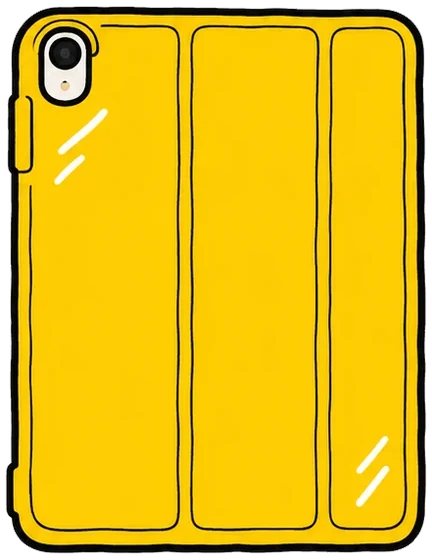
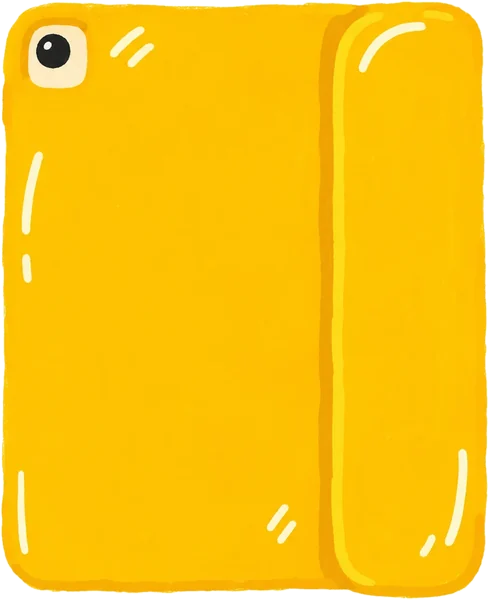
Redraw desk assets in the no-outline gouache poster style
Each prop, the cutting mat and the tablecloth were generated in their own
ChatGPT chat with the style reference attached, then cut out. Hint chip is
now a flat yellow pill to match.

Claude-Session: https://claude.ai/code/session_01LGMYZrrSTaEhzWPwz3UXtF

Changed region(s): [[0.0, 0.0, 1.0, 1.0], [0.5417, 0.8196, 0.6019, 0.9107]]

diff --git a/index.html b/index.html
@@ -302,7 +302,7 @@ dl.cred dd{margin:0;font-size:calc(var(--u)*2.2)}
 .desk-scene{background:#F6E7C8 url(desk/tablecloth.webp) center/cover no-repeat}
 .desk-hint{position:absolute;top:max(18px,env(safe-area-inset-top,0px));left:50%;transform:translateX(-50%) rotate(-1.5deg);
   font-family:var(--mono);font-weight:700;font-size:11px;letter-spacing:.12em;text-transform:uppercase;color:var(--ink);
-  background:var(--yellow);border:2.5px solid var(--ink);border-radius:999px;box-shadow:4px 5px 0 var(--ink);
+  background:var(--yellow);border-radius:999px;
   padding:8px 16px;white-space:nowrap;z-index:30;pointer-events:none}
 .desk-fixed{position:absolute;pointer-events:none}
 .desk-fixed.mat{width:var(--w);transform:rotate(var(--r,0deg));filter:drop-shadow(8px 10px 0 rgba(70,12,12,.3))}
@@ -628,14 +628,14 @@ dl.cred dd{margin:0;font-size:calc(var(--u)*2.2)}
   <div class="desk-item" style="left:10%;top:14%;--w:clamp(110px,12vw,170px);--r:-11deg;z-index:2" aria-hidden="true"><img src="desk/paper.webp" alt="" draggable="false"></div>
   <div class="desk-item" style="left:4%;top:44%;--w:clamp(110px,12vw,170px);--r:-9deg;z-index:3" aria-hidden="true"><img src="desk/sketchbook.webp" alt="" draggable="false"></div>
   <div class="desk-item" style="left:60%;top:56%;--w:clamp(130px,15vw,200px);--r:5deg;z-index:4" aria-hidden="true"><img src="desk/pad.webp" alt="" draggable="false"></div>
-  <div class="desk-item" style="left:20%;top:54%;--w:clamp(80px,8.5vw,120px);--r:62deg;z-index:5" aria-hidden="true"><img src="desk/ruler.webp" alt="" draggable="false"></div>
+  <div class="desk-item" style="left:13%;top:58%;--w:clamp(140px,16vw,220px);--r:0deg;z-index:5" aria-hidden="true"><img src="desk/ruler.webp" alt="" draggable="false"></div>
   <div class="desk-item" data-book="1" style="left:40%;top:33%;--w:clamp(170px,19vw,250px);--r:4deg;z-index:6" role="button" tabindex="0" aria-label="Open the recipe book"><img src="desk/book.webp" alt="" draggable="false"></div>
-  <div class="desk-item" style="left:80%;top:48%;--w:clamp(55px,6vw,85px);--r:75deg;z-index:7" aria-hidden="true"><img src="desk/pencils.webp" alt="" draggable="false"></div>
-  <div class="desk-item" style="left:48%;top:50%;--w:clamp(32px,3.6vw,50px);--r:58deg;z-index:8" aria-hidden="true"><img src="desk/knife.webp" alt="" draggable="false"></div>
+  <div class="desk-item" style="left:79%;top:46%;--w:clamp(70px,7vw,100px);--r:70deg;z-index:7" aria-hidden="true"><img src="desk/pencils.webp" alt="" draggable="false"></div>
+  <div class="desk-item" style="left:46%;top:47%;--w:clamp(90px,10vw,140px);--r:8deg;z-index:8" aria-hidden="true"><img src="desk/knife.webp" alt="" draggable="false"></div>
   <div class="desk-item" style="left:88%;top:70%;--w:clamp(80px,8vw,115px);--r:0deg;z-index:9" aria-hidden="true"><img src="desk/glass.webp" alt="" draggable="false"></div>
   <div class="desk-item" style="left:86%;top:34%;--w:clamp(90px,9vw,125px);--r:-6deg;z-index:10" aria-hidden="true"><img src="desk/coffee.webp" alt="" draggable="false"></div>
   <div class="desk-item" style="left:76%;top:3%;--w:clamp(130px,13vw,180px);--r:0deg;z-index:11" aria-hidden="true"><img src="desk/cereal.webp" alt="" draggable="false"></div>
-  <div class="desk-item" style="left:52%;top:5%;--w:clamp(60px,6vw,85px);--r:-30deg;z-index:12" aria-hidden="true"><img src="desk/earphones.webp" alt="" draggable="false"></div>
+  <div class="desk-item" style="left:51%;top:4%;--w:clamp(80px,8vw,115px);--r:-20deg;z-index:12" aria-hidden="true"><img src="desk/earphones.webp" alt="" draggable="false"></div>
   <div class="desk-item" style="left:3%;top:4%;--w:clamp(130px,14vw,190px);--r:-7deg;z-index:13" aria-hidden="true"><img src="desk/ipad.webp" alt="" draggable="false"></div>
   <div class="desk-item" style="left:62%;top:18%;--w:clamp(120px,12vw,170px);--r:9deg;z-index:14" aria-hidden="true"><img src="desk/camera.webp" alt="" draggable="false"></div>
   <div class="desk-item" style="left:31%;top:9%;--w:clamp(65px,6.5vw,95px);--r:13deg;z-index:15" aria-hidden="true"><img src="desk/phone.webp" alt="" draggable="false"></div>
